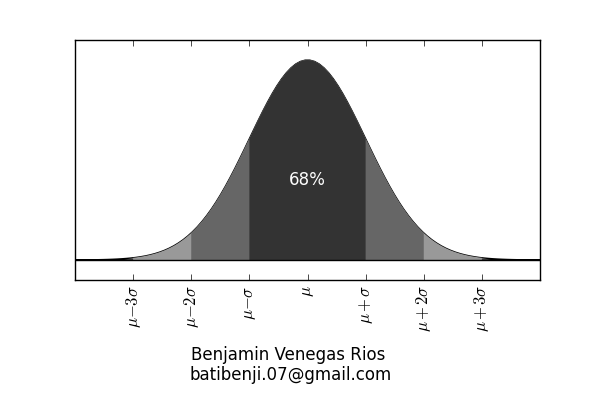
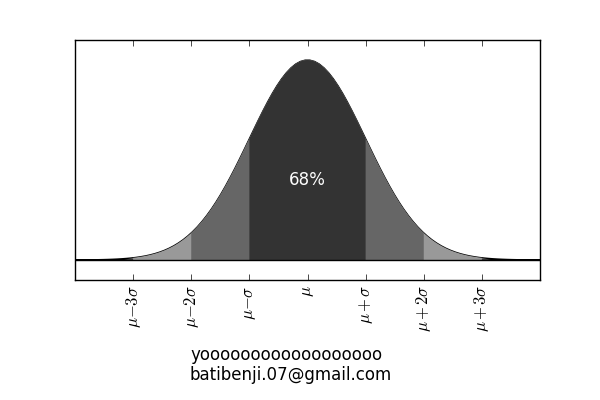
Probando

Changed region(s): [[0.3, 0.87, 0.66, 0.9]]

diff --git a/gauss_plot.py b/gauss_plot.py
@@ -38,7 +38,7 @@ xtick_labels = (r"$\mu - 3 \sigma$",
 
 fig = plt.figure(1, figsize=(6, 4))
 ax = fig.add_subplot(111)
-ax.text(-2,-0.5,"Benjamin Venegas Rios")
+ax.text(-2,-0.5,"yoooooooooooooooooo")
 ax.text(-2,-0.6,"batibenji.07@gmail.com")
 ax.axhline(0, color='k')
 
